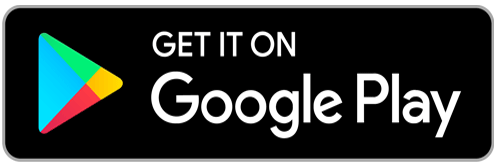
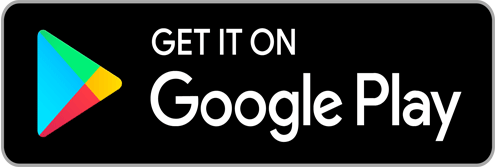
resized badges

diff --git a/privacy-policy/snowman-run.html b/privacy-policy/snowman-run.html
@@ -53,7 +53,7 @@
                 <img
                   src="../assets/images/app-store-badge-ios.png"
                   alt="Download on the App Store"
-                  class="store-badge"
+                  style="height: 50px; width: auto"
                 />
               </a>
               <a
@@ -62,7 +62,7 @@
                 <img
                   src="../assets/images/google-play-badge.png"
                   alt="Get it on Google Play"
-                  class="store-badge"
+                  style="height: 50px; width: auto"
                 />
               </a>
             </div>

diff --git a/assets/css/style.css b/assets/css/style.css
@@ -2270,8 +2270,3 @@ textarea.form-input::-webkit-resizer {
     flex-direction: column;
   }
 }
-
-.store-badge {
-  height: 50px;
-  width: auto;
-}
